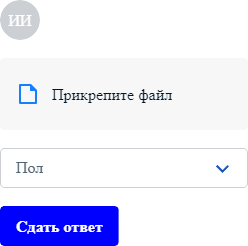
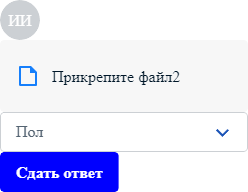
api-fix / client - serv conn created

diff --git a/src/App.js b/src/App.js
@@ -7,6 +7,7 @@ import { io } from "socket.io-client";
 
 function App() {
   const [inputValue, setInputValue] = useState('');
+  const [components, setComponents] = useState([]);  
   const [status, setStatus] = useState('');
   const [dateTime, setDateTime] = useState(new Date());
   const [isLoading, setIsLoading] = useState(false);
@@ -20,27 +21,61 @@ function App() {
 
   const relatedElementsRef = useRef();
 
+  const fetchComponentsFromServer = async () => {
+    try {
+      const response = await fetch('http://localhost:5001/api/main', {
+        method: 'POST',
+        headers: {
+          'Content-Type': 'application/json',
+        },
+        body: JSON.stringify({ inputValue }), 
+      });
+  
+      const data = await response.json();
+      const { components } = data;
+  
+      const generatedComponents = components.map((component, index) => {
+        let reactComponent;
+  
+        switch (component.type) {
+          case 'Avatar':
+            reactComponent = <Avatar key={index} {...component.props} />;
+            break;
+          case 'File':
+            reactComponent = <File key={index} {...component.props} />;
+            break;
+          case 'Select':
+            reactComponent = <Select key={index} {...component.props} selected={[]} onSelectionChange={() => { }} />;
+            break;
+          case 'Button':
+            reactComponent = <Button key={index} {...component.props}>{component.props.children}</Button>;
+            break;
+          default:
+            reactComponent = null;
+        }
+  
+        return (
+          <React.Fragment key={index}>
+            {reactComponent}
+            <br /> 
+          </React.Fragment>
+        );
+      });
+  
+      setComponents(generatedComponents); 
+    } catch (error) {
+      console.error('Ошибка при получении данных с сервера:', error);
+    }
+  };
+  
+  
+
   const relatedElements = useMemo(() => (
     <div ref={relatedElementsRef}>
-      <Avatar userName="Иван" userSurname="Иванов" />
-      <br />
-      <File label="Прикрепите файл" />
-      <br />
-      <Select
-        options={[
-          { value: 'male', label: 'Мужской' },
-          { value: 'female', label: 'Женский' }
-        ]}
-        label="Пол"
-        selected={[]}
-        onSelectionChange={() => { }}
-      />
-      <br />
-      <Button style={{ backgroundColor: 'blue', color: 'white' }}>
-        Сдать ответ
-      </Button>
+      {components.length > 0 ? components : 'some text info'}
     </div>
-  ), []);
+  ), [components]);  
+  
 
   const updateDateTime = () => {
     setDateTime(new Date());
@@ -117,6 +152,8 @@ function App() {
   const handleSubmit = (event) => {
     event.preventDefault();
     setIsLoading(true);
+
+    fetchComponentsFromServer();
 
     setTimeout(() => {
       const messageId = Date.now();

diff --git a/RESTful API/main.py b/RESTful API/main.py
@@ -1,43 +1,50 @@
 from flask import Flask, jsonify, request
-from flask_restful import Api, Resource, reqparse
-from flask_cors import CORS, cross_origin
-import time
+from flask_cors import CORS
 
 app = Flask(__name__)
-CORS(app, resources=r'/api/*')
+CORS(app, resources={r"/api/*": {"origins": "*"}})
 
-api = Api()
+@app.route("/api/main", methods=["POST"])
+def get_component_data():
+    data = request.get_json()
+    input_value = data.get('inputValue', '')
+    print(input_value)
 
+    components = [
+        {
+            "type": "Avatar",
+            "props": {
+                "userName": "Иван",
+                "userSurname": "Иванов"
+            }
+        },
+        {
+            "type": "File",
+            "props": {
+                "label": "Прикрепите файл2"
+            }
+        },
+        {
+            "type": "Select",
+            "props": {
+                "options": [
+                    {"value": "male", "label": "Мужской"},
+                    {"value": "female", "label": "Женский"}
+                ],
+                "label": "Пол"
+            }
+        },
+        {
+            "type": "Button",
+            "props": {
+                "children": "Сдать ответ",
+                "style": {"backgroundColor": "blue", "color": "white"}
+            }
+        }
+    ]
 
-class Main(Resource):
-    def __init__(self):
-        self.answer_front_str = None
-        self.text_llm = None
-
-    @app.route("/", methods=["GET"])
-    def get(self):
-        response = jsonify(message='llm_text')
-
-        # принимаем CORS
-        response.headers.add("Access-Control-Allow-Origin", "*")
-        return response
-
-    @app.route("/", methods=["POST"])
-    def post(self):
-        if request.method == 'POST':
-            self.answer_front_str = request.data.decode('UTF-8')
-
-            self.process_frontend()
-
-    def process_frontend(self):
-        self.text_llm = self.answer_front_str.split(':')[1][1:][:-2]
-        print(self.text_llm)
-
-
-api.add_resource(Main, "/api/main")
-api.init_app(app)
+    return jsonify({'components': components})
 
 
 if __name__ == "__main__":
-    app.run(debug=True, port=5000, host='127.0.0.1')
-
+    app.run(debug=True, port=5001, host='127.0.0.1')

diff --git a/newsletter-service/tg-bot/main.py b/newsletter-service/tg-bot/main.py
@@ -76,9 +76,6 @@ def handle_rating_callback(call):
     user_id = call.from_user.id
     rating = call.data
     message_id = call.message.message_id 
-
-    print(f"WebSocket: Отправляем данные: message_id={message_id}, rating={rating}")
-
     result_message = "Данные переданны оператору." if rating == "like" else "Данные переданны оператору."
     bot.send_message(user_id, result_message)
 
